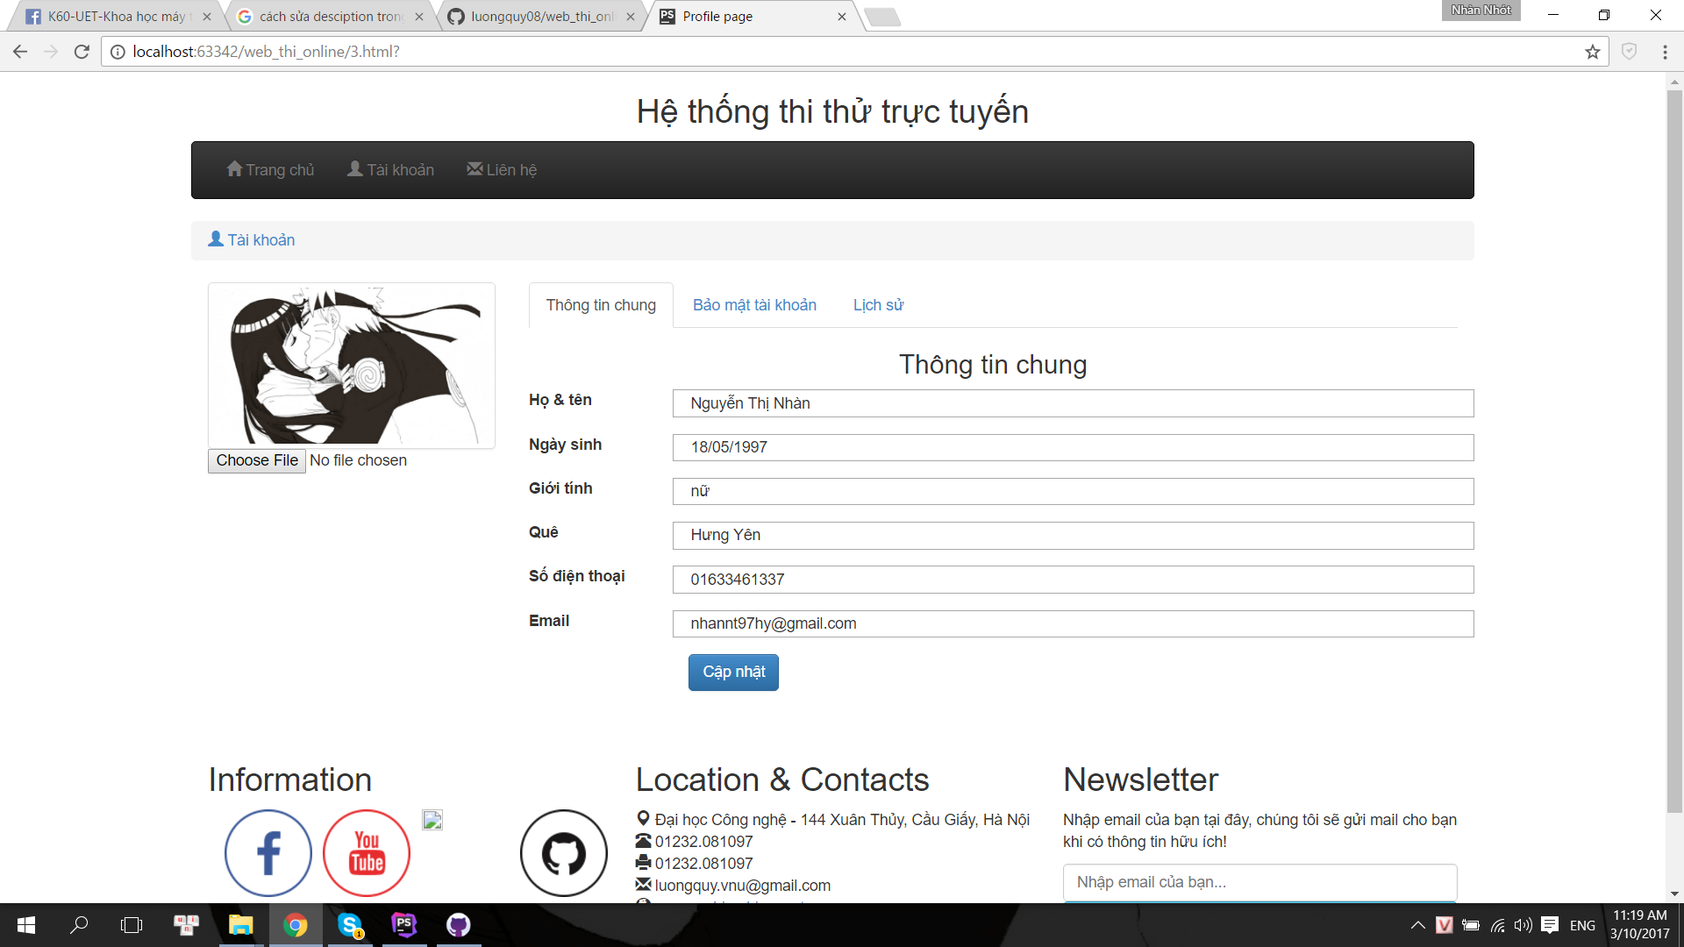
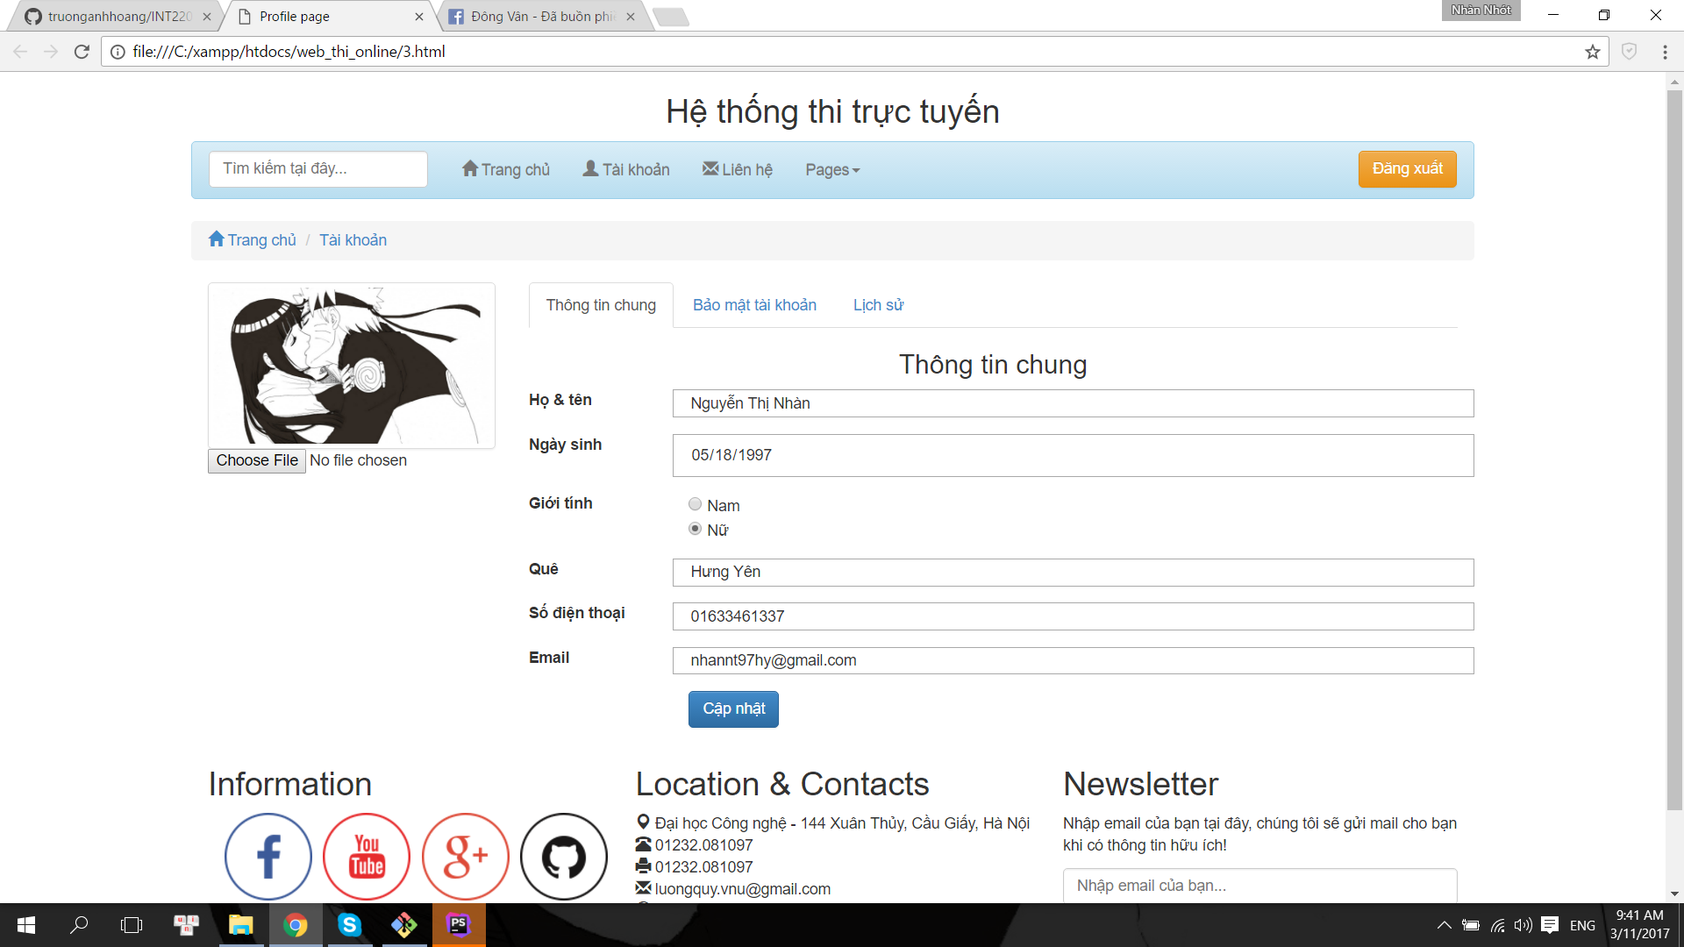
update version 1.1

diff --git a/5.html b/5.html
@@ -107,199 +107,185 @@
                      </div>
                   </div>
                </div>
-               <div class="panel panel-primary">
-                  <div class="panel-heading">
-                     <h3 class="panel-title text-center">TOÁN</h3>
-                  </div>
-                  <div class="panel-body">
-                     <div class="col-md-6">
-                        <table class="table table-striped">
-                           <tr>
-                              <th><span class="glyphicon glyphicon-time"></span> Kiểm tra 15 phút</th>
-                           </tr>
-                           <tr>
-                              <td class="col-md-6"><a href="#"><span class="glyphicon glyphicon-list-alt"> Sự đồng biến, nghịch biến của hàm số</span></a>
-                              </td>
-                           </tr>
-                           <tr>
-                              <td class="col-md-6"><a href="#"><span class="glyphicon glyphicon-list-alt"> Cực trị của hàm số</span></a>
-                           </tr>
-                           <tr>
-                              <td class="col-md-6"><a href="#"><span
-                                 class="glyphicon glyphicon-share-alt"> Xem tiếp</span></a></td>
-                           </tr>
-                        </table>
-                     </div>
-                     <div class="col-md-6">
-                        <table class="table table-striped">
-                           <tr>
-                              <th><span class="glyphicon glyphicon-time"></span> Kiểm tra 1 tiết</th>
-                           </tr>
-                           <tr>
-                              <td class="col-md-6"><a href="#"><span class="glyphicon glyphicon-list-alt"> Ứng dụng của đạo hàm để khảo sát và vẽ đồ thị...</span></a>
-                              </td>
-                           </tr>
-                           <tr>
-                              <td class="col-md-6"><a href="#"><span class="glyphicon glyphicon-list-alt"> Nguyên hàm và tích phân</span></a>
-                              </td>
-                           </tr>
-                           <tr>
-                              <td class="col-md-6"><a href="#"><span
-                                 class="glyphicon glyphicon-share-alt"> Xem tiếp</span></a></td>
-                           </tr>
-                        </table>
-                     </div>
-                  </div>
-               </div>
-            </div>
-            <div class="row">
-               <div class="panel panel-primary">
+                
+                <div class="panel panel-primary">
                   <div class="panel-heading">
                      <h3 class="panel-title text-center">VẬT LÍ</h3>
                   </div>
                   <div class="panel-body">
-                     <table class="table table-striped">
-                        <thead>
+                     <div class="col-md-6">
+                        <table class="table table-striped">
                            <tr>
                               <th><span class="glyphicon glyphicon-time"></span> Kiểm tra 15 phút</th>
-                              <th><span class="glyphicon glyphicon-time"></span> Kiểm tra 1 tiết</th>
                            </tr>
-                        </thead>
-                        <tbody>
                            <tr>
-                              <td class="col-md-6"><a href="#"><span class="glyphicon glyphicon-list-alt">  Dao động điều hòa</span></a>
+                              <td class="col-md-6"><a href="#"><span class="glyphicon glyphicon-list-alt"> Dao động điều hòa</span></a>
                               </td>
-                              <td class="col-md-6"><a href="#"><span class="glyphicon glyphicon-list-alt">  Dao động điều hòa</span></a>
-                              </td>
+                           </tr>
+                           <tr>
+                              <td class="col-md-6"><a href="#"><span class="glyphicon glyphicon-list-alt"> Con lắc lò xo</span></a>
                            </tr>
                            <tr>
                               <td class="col-md-6"><a href="#"><span
-                                 class="glyphicon glyphicon-list-alt"> Con lắc lò xo</span></a></td>
+                                 class="glyphicon glyphicon-share-alt"> Xem tiếp</span></a></td>
+                           </tr>
+                        </table>
+                     </div>
+                     <div class="col-md-6">
+                        <table class="table table-striped">
+                           <tr>
+                              <th><span class="glyphicon glyphicon-time"></span> Kiểm tra 1 tiết</th>
+                           </tr>
+                           <tr>
+                              <td class="col-md-6"><a href="#"><span class="glyphicon glyphicon-list-alt"> Dao động điều hoà</span></a>
+                              </td>
+                           </tr>
+                           <tr>
                               <td class="col-md-6"><a href="#"><span class="glyphicon glyphicon-list-alt"> Sóng cơ và sóng âm</span></a>
                               </td>
                            </tr>
                            <tr>
                               <td class="col-md-6"><a href="#"><span
                                  class="glyphicon glyphicon-share-alt"> Xem tiếp</span></a></td>
-                              <td class="col-md-6"><a href="#"><span
-                                 class="glyphicon glyphicon-share-alt"> Xem tiếp</span></a></td>
                            </tr>
-                        </tbody>
-                     </table>
+                        </table>
+                     </div>
                   </div>
                </div>
-            </div>
-            <div class="row">
-               <div class="panel panel-primary">
+                
+                <div class="panel panel-primary">
                   <div class="panel-heading">
                      <h3 class="panel-title text-center">HÓA HỌC</h3>
                   </div>
                   <div class="panel-body">
-                     <table class="table table-striped">
-                        <thead>
+                     <div class="col-md-6">
+                        <table class="table table-striped">
                            <tr>
                               <th><span class="glyphicon glyphicon-time"></span> Kiểm tra 15 phút</th>
-                              <th><span class="glyphicon glyphicon-time"></span> Kiểm tra 1 tiết</th>
                            </tr>
-                        </thead>
-                        <tbody>
                            <tr>
                               <td class="col-md-6"><a href="#"><span class="glyphicon glyphicon-list-alt">  Glucozơ</span></a>
                               </td>
-                              <td class="col-md-6"><a href="#"><span
-                                 class="glyphicon glyphicon-list-alt">  Este - Lipit</span></a></td>
                            </tr>
                            <tr>
-                              <td class="col-md-6"><a href="#"><span class="glyphicon glyphicon-list-alt"> Saccarozơ, tinh bột, xenlulozơ</span></a>
+                              <td class="col-md-6"><a href="#"><span class="glyphicon glyphicon-list-alt">  Saccarozơ, tinh bột, xenlulozơ</span></a>
+                           </tr>
+                           <tr>
+                              <td class="col-md-6"><a href="#"><span
+                                 class="glyphicon glyphicon-share-alt"> Xem tiếp</span></a></td>
+                           </tr>
+                        </table>
+                     </div>
+                     <div class="col-md-6">
+                        <table class="table table-striped">
+                           <tr>
+                              <th><span class="glyphicon glyphicon-time"></span> Kiểm tra 1 tiết</th>
+                           </tr>
+                           <tr>
+                              <td class="col-md-6"><a href="#"><span class="glyphicon glyphicon-list-alt">  Este - Lipit</span></a>
                               </td>
-                              <td class="col-md-6"><a href="#"><span
-                                 class="glyphicon glyphicon-list-alt"> Cacbohiđrat</span></a></td>
+                           </tr>
+                           <tr>
+                              <td class="col-md-6"><a href="#"><span class="glyphicon glyphicon-list-alt">  Cacbohiđrat</span></a>
+                              </td>
                            </tr>
                            <tr>
                               <td class="col-md-6"><a href="#"><span
                                  class="glyphicon glyphicon-share-alt"> Xem tiếp</span></a></td>
-                              <td class="col-md-6"><a href="#"><span
-                                 class="glyphicon glyphicon-share-alt"> Xem tiếp</span></a></td>
                            </tr>
-                        </tbody>
-                     </table>
+                        </table>
+                     </div>
                   </div>
                </div>
-            </div>
-            <div class="row">
-               <div class="panel panel-primary">
+                
+                <div class="panel panel-primary">
                   <div class="panel-heading">
                      <h3 class="panel-title text-center">SINH HỌC</h3>
                   </div>
                   <div class="panel-body">
-                     <table class="table table-striped">
-                        <thead>
+                     <div class="col-md-6">
+                        <table class="table table-striped">
                            <tr>
                               <th><span class="glyphicon glyphicon-time"></span> Kiểm tra 15 phút</th>
+                           </tr>
+                           <tr>
+                              <td class="col-md-6"><a href="#"><span class="glyphicon glyphicon-list-alt"> Sự phát sinh và phát triển của sự sống</span></a>
+                              </td>
+                           </tr>
+                           <tr>
+                              <td class="col-md-6"><a href="#"><span class="glyphicon glyphicon-list-alt"> Sinh thái học</span></a>
+                           </tr>
+                           <tr>
+                              <td class="col-md-6"><a href="#"><span
+                                 class="glyphicon glyphicon-share-alt"> Xem tiếp</span></a></td>
+                           </tr>
+                        </table>
+                     </div>
+                     <div class="col-md-6">
+                        <table class="table table-striped">
+                           <tr>
                               <th><span class="glyphicon glyphicon-time"></span> Kiểm tra 1 tiết</th>
                            </tr>
-                        </thead>
-                        <tbody>
                            <tr>
-                              <td class="col-md-6"><a href="#"><span class="glyphicon glyphicon-list-alt">  Sự phát sinh và phát triển của sự sống</span></a>
-                              </td>
-                              <td class="col-md-6"><a href="#"><span class="glyphicon glyphicon-list-alt"> Đề kiểm tra cuối chuyên đề Cơ chế DT học phân tử</span></a>
+                              <td class="col-md-6"><a href="#"><span class="glyphicon glyphicon-list-alt">  Đề kiểm tra cuối chuyên đề Cơ chế DT học phân tử</span></a>
                               </td>
                            </tr>
                            <tr>
-                              <td class="col-md-6"><a href="#"><span
-                                 class="glyphicon glyphicon-list-alt"> Sinh thái học</span></a></td>
-                              <td class="col-md-6"><a href="#"><span class="glyphicon glyphicon-list-alt"> Đề kiểm tra cuối chuyên đề Cơ chế DT cấp độ tế bào</span></a>
+                              <td class="col-md-6"><a href="#"><span class="glyphicon glyphicon-list-alt">  Đề kiểm tra cuối chuyên đề Cơ chế DT cấp độ tế bào</span></a>
                               </td>
                            </tr>
                            <tr>
                               <td class="col-md-6"><a href="#"><span
                                  class="glyphicon glyphicon-share-alt"> Xem tiếp</span></a></td>
-                              <td class="col-md-6"><a href="#"><span
-                                 class="glyphicon glyphicon-share-alt"> Xem tiếp</span></a></td>
                            </tr>
-                        </tbody>
-                     </table>
+                        </table>
+                     </div>
                   </div>
                </div>
-            </div>
-            <div class="row">
-               <div class="panel panel-primary">
+                <div class="panel panel-primary">
                   <div class="panel-heading">
                      <h3 class="panel-title text-center">NGỮ VĂN</h3>
                   </div>
                   <div class="panel-body">
-                     <table class="table table-striped">
-                        <thead>
+                     <div class="col-md-6">
+                        <table class="table table-striped">
                            <tr>
                               <th><span class="glyphicon glyphicon-time"></span> Kiểm tra 15 phút</th>
-                              <th><span class="glyphicon glyphicon-time"></span> Kiểm tra 1 tiết</th>
                            </tr>
-                        </thead>
-                        <tbody>
                            <tr>
-                              <td class="col-md-6"><a href="#"><span class="glyphicon glyphicon-list-alt"> Tiếng hát con tàu (Chế Lan Viên)</span></a>
-                              </td>
-                              <td class="col-md-6"><a href="#"><span class="glyphicon glyphicon-list-alt">  Các văn bản nghị luận và văn bản nhật dụng</span></a>
+                              <td class="col-md-6"><a href="#"><span class="glyphicon glyphicon-list-alt">   Tiếng hát con tàu (Chế Lan Viên)</span></a>
                               </td>
                            </tr>
                            <tr>
                               <td class="col-md-6"><a href="#"><span class="glyphicon glyphicon-list-alt">  Tố Hữu</span></a>
-                              </td>
-                              <td class="col-md-6"><a href="#"><span
-                                 class="glyphicon glyphicon-list-alt"> Các văn bản thơ</span></a></td>
                            </tr>
                            <tr>
                               <td class="col-md-6"><a href="#"><span
                                  class="glyphicon glyphicon-share-alt"> Xem tiếp</span></a></td>
+                           </tr>
+                        </table>
+                     </div>
+                     <div class="col-md-6">
+                        <table class="table table-striped">
+                           <tr>
+                              <th><span class="glyphicon glyphicon-time"></span> Kiểm tra 1 tiết</th>
+                           </tr>
+                           <tr>
+                              <td class="col-md-6"><a href="#"><span class="glyphicon glyphicon-list-alt"> Các văn bản nghị luận và văn bản nhật dụng</span></a>
+                              </td>
+                           </tr>
+                           <tr>
+                              <td class="col-md-6"><a href="#"><span class="glyphicon glyphicon-list-alt">  Các văn bản thơ</span></a>
+                              </td>
+                           </tr>
+                           <tr>
                               <td class="col-md-6"><a href="#"><span
                                  class="glyphicon glyphicon-share-alt"> Xem tiếp</span></a></td>
                            </tr>
-                        </tbody>
-                     </table>
+                        </table>
+                     </div>
                   </div>
                </div>
-            </div>
          </div>
       </div>
       <div id="footer">

diff --git a/3.html b/3.html
@@ -1,3 +1,5 @@
+
+
 <!DOCTYPE html>
 <html lang="vi">
    <head>
@@ -82,11 +84,14 @@
                            </div>
                            <div class="form-group">
                               <label class="control-lable col-xs-2">Ngày sinh</label>
-                              <input type="datetime" class="col-xs-10" class="form-control" value="18/05/1997">
+                              <input type="DATE" class="col-xs-10" class="form-control">
                            </div>
                            <div class="form-group">
                               <label class="control-lable col-xs-2">Giới tính</label>
-                              <input type="text" class="col-xs-10" class="form-control" value="nữ">
+                              <div class="col-xs-10">
+                                 <input type="radio" name="gender" value="nam"> Nam<br>
+                                 <input type="radio" name="gender" value="nu"> Nữ
+                              </div>
                            </div>
                            <div class="form-group">
                               <label class="control-lable col-xs-2" >Quê</label>

diff --git a/readme.md b/readme.md
@@ -1,0 +1,63 @@
+Welcome to the web_thi_online wiki!
+- MÔN CÔNG NGHỆ PHẦN MỀM
+
+- Nhóm: Skeeters
+- Team Leader: Lương Văn Quý
+
+ CHỨC NĂNG CHƯƠNG TRÌNH 
+
+Sau khi khảo sát và xác định được các yêu cầu của hệ thống, có thể phân tích để đưa ra các quy trình nghiệp vụ chung của hệ thống bao gồm các phần: 
+
+*1. Chức năng quản lý đề thi. 
+Mục tiêu: Cho phép người sử dụng chương trình cập nhật, xóa, thay đổi các thông tin về các bộ đề thi và các câu hỏi trắc nghiệm trong bộ đề thi của mỗi môn  đó. Người sử dụng thực hiện phải có quyền hạn được phép cập nhật thông tin về Bộ đề thi và danh sách các câu hỏi được khai báo trong quyền chức năng Quản lý thành viên và cấp quyền hạn đăng nhập tương ứng cho từng thành viên. Có các chức năng thêm, sửa, xóa . 
+
+Đầu vào: Đầu vào của chức năng này là thông tin về các bồ đề thi và câu hỏi trắc  nghiệm như: mã đề thi, mã câu hỏi, nội dung câu hỏi, các đáp án, đáp án đúng… 
+
+Đầu ra:  Đầu ra của chức năng này là các thông tin được lưu vào CSDL 
+
+*2. Chức năng Quản lý môn học 
+Mục tiêu: Chức năng cập nhật môn học cho phép người sử dụng hệ thống có thể cập nhật, thay đổi hoặc xóa các thông tin về danh sách môn học. Để thực hiện được chức năng này yêu cầu người sử dụng phải có quyền hạn được phép cập nhật thông tin về danh sách môn học, khai báo trong chức năng Quản lý thành viên và cấp quyền hạn đăng nhập tương ứng cho từng thành viên. 
+
+Đầu vào: Đầu vào là các thông tin về môn học như :mã môn, tên môn 
+
+Đầu ra: Thông tin về danh sách các môn học được lưu vào trong CSDL. 
+
+*3. Chức năng Quản lý Thành viên 
+Mục tiêu: chức năng này cho phép người quản trị (Admin) khai báo nhiều thành viên (user) với các quyền hạn khác nhau để có thể cập nhật dữ liệu. Các quyền hạn này là: 
+
+    Cập nhật thông tin về danh sách các môn học 
+    Cập nhật thông tin về bộ đề thi và các câu hỏi trắc nghiệm. 
+    Quản lí bài làm của các user 
+    Tạo, thay đổi thông tin về các user 
+
+Đầu vào: Đầu vào của chức năng này thông tin về các user 
+
+Đầu ra: Thông tin về các user được lưu lại trong CSDL 
+
+*4. Chức năng trắc nghiệm 
+Mục tiêu: chức năng này cho phép user làm các bài thi trắc nghiệm theo môn học tùy thuộc vào sự lựa chọn của user. Sau khi làm xong user tiến hành nộp bài, bài làm và điểm của user được cập nhật vào CSDL thuận tiện trong trường hợp user muốn xem lại bài làm của mình về sau. 
+
+Đầu vào: Các thông tin liên quan đến bài làm của user như: Tên User làm bài, đề thi mà user lựa chọn, các đáp án mà user đã chọn. 
+
+Đầu ra: Các thông tin liên quan được lưu trong cơ sở dữ liệu như kết quả của sinh viên khi nộp bài, biết câu nào đúng hoặc câu nào sai… 
+
+*5. Chức năng thống kê 
+    Thống kê danh sách các thành viên của website: Hệ thống cho phép xem danh sách các thành viên của website. 
+    Thống kê danh sách bộ đề thi và câu hỏi: người sử dụng có quyền hạn tương ứng có thể xem các bộ đề thi, câu hỏi và đáp án 
+    Xem lại bài làm: sử dụng chức năng này khi user  nào có nhu cầu xem lại bài làm của mình 
+    Thống kê các câu hỏi đóng góp của các thành viên, kiểm duyệt và xem xét mức độ của câu hỏi có phù hợp với kiến thức của học viên hay không. Sau đó sẽ quyết định có hay không sử dụng câu hỏi đó vào trong ngân hàng câu hỏi của website. 
+    Xếp hạng những thí sinh có điểm đứng đầu trong tuần thi. 
+
+*6. Chức năng Đóng góp câu hỏi 
+Mục tiêu : Chức năng này cho phép người dùng đóng góp thêm vào ngân hàng câu hỏi trong đề thi nhằm tăng sự phong phú, đa dạng của câu hỏi. Các câu hỏi đóng góp sẽ được ban quản trị kiểm duyệt nếu phù hợp sẽ được sử dụng đăng tải trên website. Để sử dụng được chức năng này yêu cầu người dùng phải đăng nhập với tư cách là thành viên của website 
+
+Đầu vào : Nội dung câu hoi, các phương án trả lời và đáp án đúng cho câu hỏi 
+
+Đầu ra : Các câu hỏi sẽ được lưu lại trong CSDL
+
+*7. Chức năng phản hồi 
+ Chức năng này cho phép các thành viên cũng như người dùng truy cập vào website có thể  đóng góp những ý kiến về mức độ khó của các câu hỏi, yêu cầu hướng dẫn cách thức làm bài trắc nghiệm trên website như thế nào, nêu ra những ý kiến đóng góp để website được hoàn thiện hơn v.v…
+
+- Ngôn ngữ sử dụng: PHP
+- Thư viện code giao diện: Bootstrap framework
+
